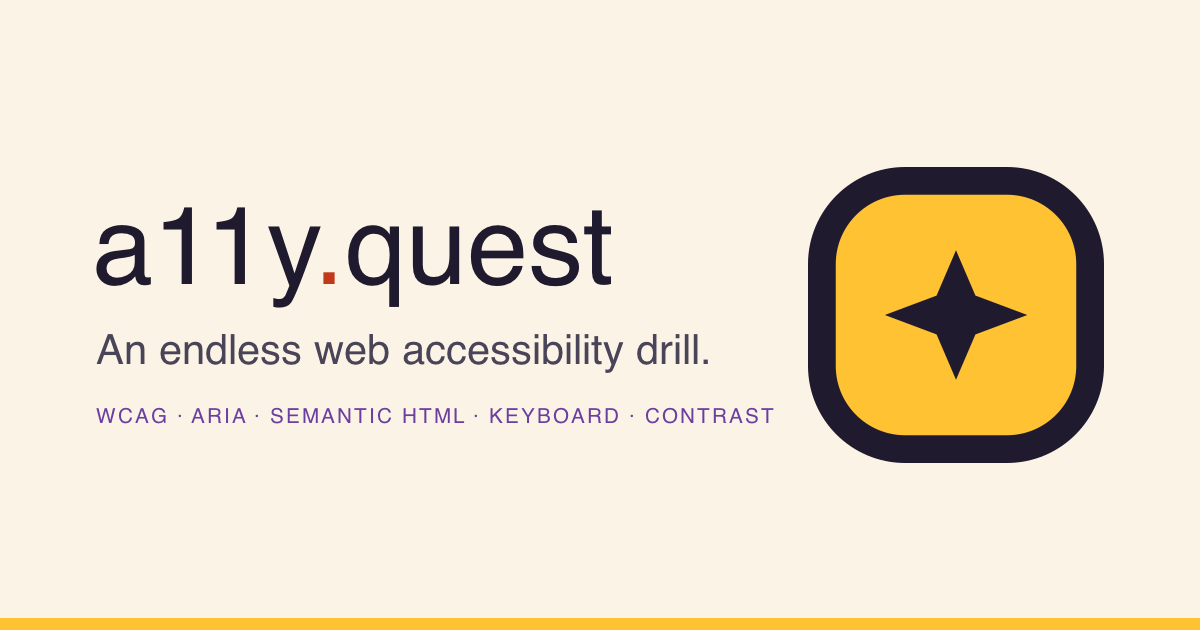
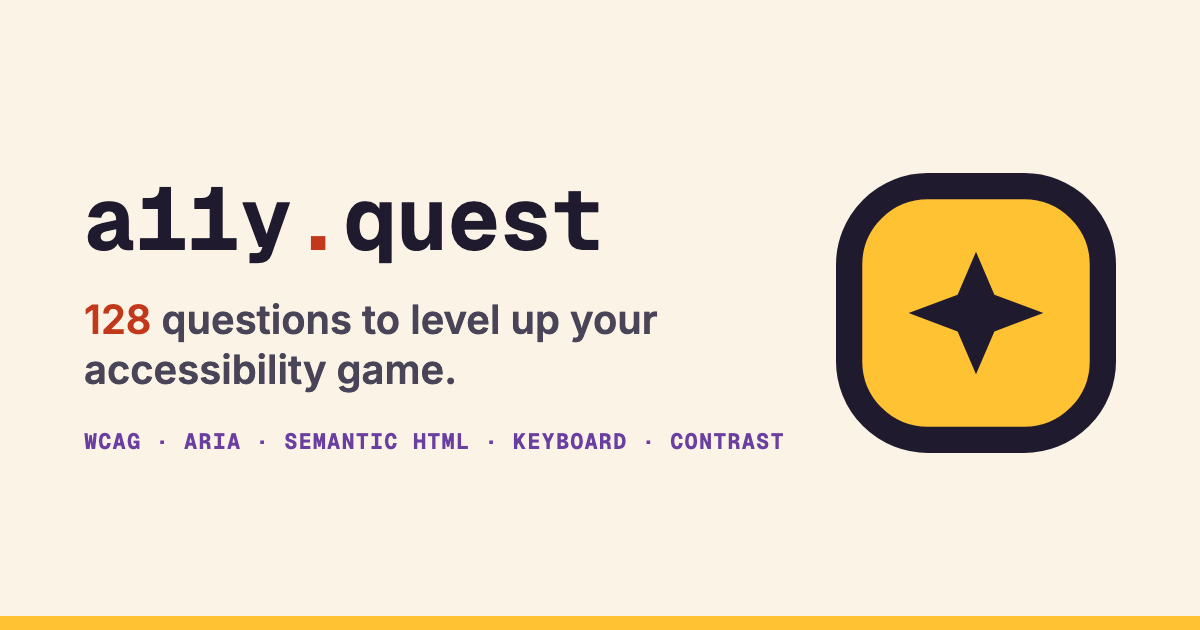
feat(seo): rebrand tagline to "128 questions to level up your accessibility game"
Update the header subheading and the document title, refresh the meta description (which also feeds og/twitter description and JSON-LD), update the social-card alt text, and regenerate public/og-image.png with the new tagline.

diff --git a/src/components/SiteHeader/SiteHeader.test.ts b/src/components/SiteHeader/SiteHeader.test.ts
@@ -5,7 +5,7 @@ describe("siteHeader", () => {
   it("renders the wordmark as the page h1 with the tagline", () => {
     const html = siteHeader();
     expect(html).toMatch(/<h1[^>]*>a11y.*quest<\/h1>/s);
-    expect(html).toContain("An endless web accessibility drill.");
+    expect(html).toContain("128 questions to level up your accessibility game.");
   });
 
   it("does not use the mascot name or personal branding", () => {

diff --git a/src/components/SiteHeader/SiteHeader.ts b/src/components/SiteHeader/SiteHeader.ts
@@ -10,7 +10,7 @@ export function siteHeader(): string {
     `<img class="${styles.logo}" src="/favicon.svg" alt="" width="48" height="48" />` +
     `<div class="${styles.identityText}">` +
     `<h1 class="${styles.wordmark}">a11y<span class="${styles.dot}">.</span>quest</h1>` +
-    `<p class="${styles.tagline}">An endless web accessibility drill.</p>` +
+    `<p class="${styles.tagline}">128 questions to level up your accessibility game.</p>` +
     `</div>` +
     `</div>` +
     themeToggle() +